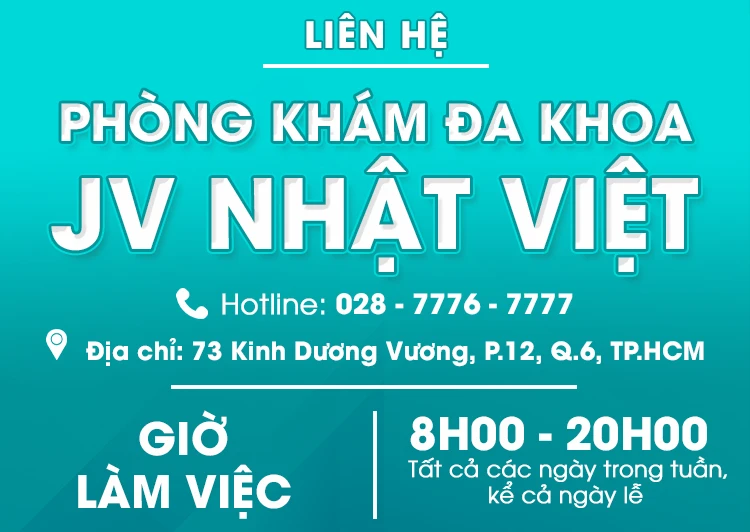
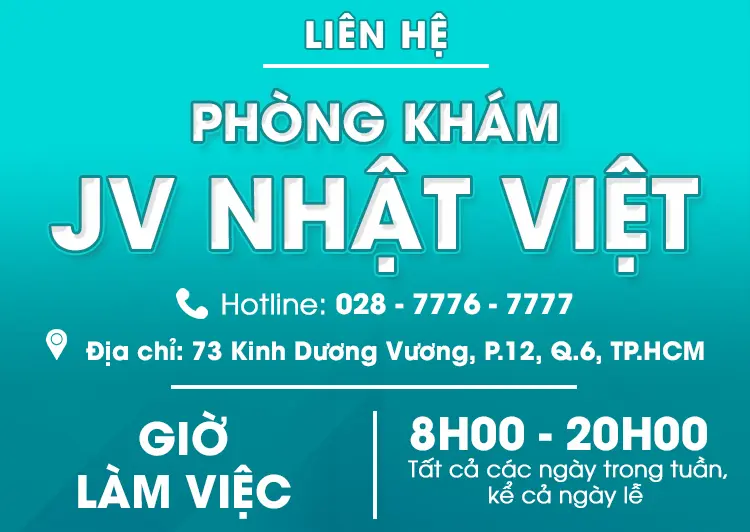
update

Changed region(s): [[0.0613, 0.1504, 0.9507, 0.3008]]

diff --git a/index.php b/index.php
@@ -29,7 +29,7 @@
                             CHÚNG TÔI MANG ĐẾN
                         </div>
                         <div class="we__bring-row-right-text">
-                            Đa Khoa Nhật Việt luôn nỗ lực để xây dựng một thương hiệu chăm sóc sức khỏe với hàm lượng tri thức, khoa học và công nghệ ở mức cao. Mỗi dịch vụ y tế đều hướng tới tính tiện ích, hiệu quả, có ý nghĩa với cuộc sống và sức khỏe con người.
+                            Phòng khám Nhật Việt luôn nỗ lực để xây dựng một thương hiệu chăm sóc sức khỏe với hàm lượng tri thức, khoa học và công nghệ ở mức cao. Mỗi dịch vụ y tế đều hướng tới tính tiện ích, hiệu quả, có ý nghĩa với cuộc sống và sức khỏe con người.
                         </div>
                         <button class="we__bring-row-right-button">
                             XEM TẤT CẢ CÁC DỊCH VỤ CỦA CHÚNG TÔI
@@ -296,7 +296,7 @@
                             </div>
                         </div>
                         <div class="feedback__container-row-card-bottom">
-                            “Mình bị viêm da cũng khá nặng, đã chữa trị nhiều nơi nhưng không khỏi. Mình biết đến Phòng khám Đa khoa Nhật Việt qua một người bạn. Khi mình đến khám, bác sĩ và nhân viên phòng khám hướng dẫn mình rất chi tiết trong từng hạng mục.”
+                            “Mình bị viêm da cũng khá nặng, đã chữa trị nhiều nơi nhưng không khỏi. Mình biết đến Phòng khám Nhật Việt qua một người bạn. Khi mình đến khám, bác sĩ và nhân viên phòng khám hướng dẫn mình rất chi tiết trong từng hạng mục.”
                         </div>
                     </div>
 
@@ -321,7 +321,7 @@
                             </div>
                         </div>
                         <div class="feedback__container-row-card-bottom">
-                            “Theo Hải thì chất lượng phòng khám là khỏi chê, đội ngũ nhân viên y, bác sĩ rất thân thiện và nhiệt tình. Thời gian trả kết quả cũng rất nhanh, cái chính là an toàn và bảo mật. Đây là điều mà Hải cảm thấy hài lòng nhất, xin cám ơn Đa khoa Nhật Việt!”
+                            “Theo Hải thì chất lượng phòng khám là khỏi chê, đội ngũ nhân viên y, bác sĩ rất thân thiện và nhiệt tình. Thời gian trả kết quả cũng rất nhanh, cái chính là an toàn và bảo mật. Đây là điều mà Hải cảm thấy hài lòng nhất, xin cám ơn Phòng khám Nhật Việt!”
                         </div>
                     </div>
 
@@ -345,7 +345,7 @@
                             </div>
                         </div>
                         <div class="feedback__container-row-card-bottom">
-                            “Công việc của Hiếu khá bận nên thời gian rảnh rất ít. Do đó Hiếu đã chọn thăm khám nam khoa tại Đa Khoa Nhật Việt qua Đặt hẹn Online.”
+                            “Công việc của Hiếu khá bận nên thời gian rảnh rất ít. Do đó Hiếu đã chọn thăm khám nam khoa tại Phòng khám Nhật Việt qua Đặt hẹn Online.”
                         </div>
                     </div>
                 </div>

diff --git a/layout/header_component.php b/layout/header_component.php
@@ -50,7 +50,7 @@
                 </li>
                 <li class="header__bottom-nav-ul-li header__bottom-border header__bottom-positon">
                     <a class="" href="<?php echo $local ?>">bệnh nam khoa</a>
-                    <div class="header__menu">
+                    <!-- <div class="header__menu">
                         <div></div>
                         <nav>
                             <?php foreach ($getAllChiTietKhoaAndBenh as $value) : ?>
@@ -64,7 +64,7 @@
                                 </ul>
                             <?php endforeach; ?>
                         </nav>
-                    </div>
+                    </div> -->
                 </li>
                 <li class="header__bottom-nav-ul-li header__bottom-border">
                     <a class="" href="<?php echo $local ?>/tin-tuc-y-khoa.html">tin tức y khoa</a>
@@ -80,8 +80,8 @@
 <header id="header__mobile" class="header__mobile">
     <div class="header__mobile-top">
         <div class="header__mobile-top-left">
-            <amp-img onclick="showSidebar()" class="header__mobile-top-left-icon" src="<?php echo $local ?>/images/icons/menu_white.webp" height="25px" width="25px" alt="..."></amp-img>
-            <amp-img onclick="hidenSidebar()" class="header__mobile-top-left-icon-close" src="<?php echo $local ?>/images/icons/icon_close.webp" height="25px" width="25px" alt="..."></amp-img>
+            <img onclick="showSidebar()" class="header__mobile-top-left-icon" src="<?php echo $local ?>/images/icons/menu_white.webp" height="25px" width="25px" alt="..."></img>
+            <img onclick="hidenSidebar()" class="header__mobile-top-left-icon-close" src="<?php echo $local ?>/images/icons/icon_close.webp" height="25px" width="25px" alt="..."></img>
         </div>
         <div class="header__mobile-top-center">
             <input id="sdt_mobile" type="number" placeholder="Nhập số điện thoại">
@@ -116,7 +116,7 @@
                     <span>danh mục bệnh</span>
                     <img src="<?php echo $local ?>/images/icons/icon_down.png" alt="">
                 </div>
-                <ul class="sidebar_mobile_li-option">
+                <!-- <ul class="sidebar_mobile_li-option">
                     <?php foreach ($getAllChiTietKhoaAndBenh as $value) : ?>
                         <li class="sidebar_mobile_li-option-li">
                             <div data-option="<?php echo $value['id'] ?>" class="sidebar_mobile_li-option-li-div">
@@ -132,7 +132,7 @@
                             </ul>
                         </li>
                     <?php endforeach; ?>
-                </ul>
+                </ul> -->
             </li>
 
             <li>

diff --git a/inc/header.php b/inc/header.php
@@ -38,8 +38,8 @@ $local ='https://namkhoa.phongkhamnhatviet.vn'
 <head>
 <meta charset="UTF-8">
     <meta name="viewport" content="width=device-width, initial-scale=1.0">
-    <meta name="description" content="Phòng khám đa khoa chuyên điều trị bệnh nam khoa, bệnh xã hội, da liễu, hậu môn - trực tràng uy tính tại thành phố Hồ Chí Minh">
-    <title>Phòng khám đa khoa</title>
+    <meta name="description" content="Phòng khám chuyên điều trị bệnh nam khoa, bệnh xã hội, da liễu, hậu môn - trực tràng uy tính tại thành phố Hồ Chí Minh">
+    <title>Phòng khám</title>
     <link rel="icon" href="<?php echo $local ?>/images/icons/icon_logo.png" type="image/x-icon">
     <link rel="preload" href="<?php echo $local ?>/css/index.min.css" as="style" onload='this.onload=null,this.rel="stylesheet"'>
     <link rel="preload" href="<?php echo $local ?>/css/toastr.min.css" as="style" onload='this.onload=null,this.rel="stylesheet"'>

diff --git a/admin/inc/header.php b/admin/inc/header.php
@@ -91,7 +91,7 @@ header("Cache-Control: max-age=2592000");
         <aside id="sidebar">
             <div class="d-flex mt-3" style="margin-left: 24px;">
                 <div class="sidebar-logo">
-                    <a href="<?php echo $local ?>/admin">PK Đa Khoa</a>
+                    <a href="<?php echo $local ?>/admin">Phòng khám Nhật Việt</a>
                 </div>
             </div>
             <ul class="sidebar-nav">
